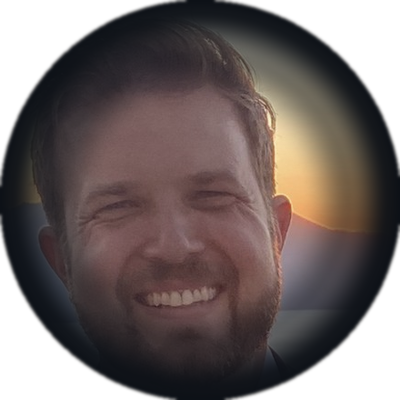
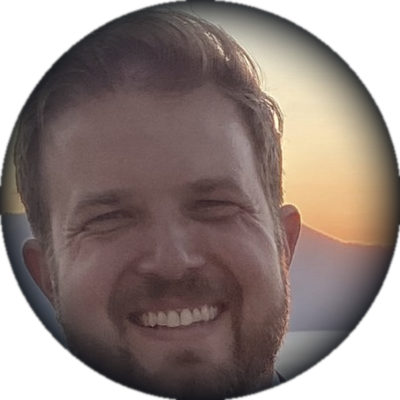
Refine author photo, rewrite bio framing as ZFC-conservative with infinity binding

diff --git a/website/src/pages/About.jsx b/website/src/pages/About.jsx
@@ -408,6 +408,16 @@ export default function About() {
               lineHeight: 2,
               fontFamily: 'var(--font-body)'
             }}>
+              This is ZFC-conservative. If numbers are sets — and under the standard axioms, they are — then sets have structure, and structure has constraints. Those constraints are laws. The question Marithmetics asks is not whether numbers obey laws, but why we never formalized the ones they were already following. And perhaps our deepest issue with infinity was never that we hadn't explored enough of it. Perhaps it's that we never figured out how to bind it.
+            </p>
+
+            <p style={{
+              fontSize: 17,
+              color: 'var(--text)',
+              margin: 0,
+              lineHeight: 2,
+              fontFamily: 'var(--font-body)'
+            }}>
               Justin grew up in a difficult household — poverty, abuse, addiction. He was identified as gifted early on but lost academic discipline as his home fell apart. He once tried to describe a tesseract on paper and was mocked for it by a family member. He later learned it was a real mathematical object. But the lesson that lasted was simpler: if you can see something and can't show it to others in terms they can verify for themselves, it doesn't matter that you saw it.
             </p>
 
